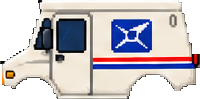
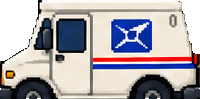
Add a vertical road, narrow the lots to suit, restore the van's wheels
Vertical road. The streets were horizontal bands separated by the lots with
nothing joining them, so a van could only ever serve the two properties
either side of its own street. A road now runs the full height of the map
down the left, crossing every cross street. Lots narrow from 880 to 780 and
shift right to make room, and vanOnRoad tests the union of the two roads, so
the van turns off one onto the other at each junction.

That means one van again instead of one parked per street, and it starts on
the vertical road beside the carrier's spawn. Driving is now directional:
the front and rear sprites are used when travelling up and down the vertical
road, the side views along a street.

Also widened the world from 880 to exactly the 900px canvas, closing a dead
20px strip that was showing the canvas background down the right edge. The
camera still never pans sideways.

Van wheels. The extraction had been dropping the tyres. The sheet's shadow
under each van is as black as the tyres themselves, so the background grow
walked down that gradient into them, and neither a colour threshold nor a
morphological close could separate the two afterwards. The cut now walks
down each column from the body to the tyre baseline and reclaims only the
dark pixels, which takes the wheels and the shadow between them without the
grey backdrop. Lower-band alpha coverage goes 0.72 -> 1.00 on the side
views and 0.70 -> 0.98 on the rear.
[…]

diff --git a/game.js b/game.js
@@ -201,8 +201,8 @@ const PLAYER_R = 11;       // player collision radius, also sizes mailbox approa
 const VAN_H = 58;          // rendered van height; length follows the sprite's aspect
 const VAN_SPEED = 260;     // noticeably quicker than the 130 the carrier walks
 const VAN_ENTER_R = 62;    // how close you must be to climb in
-const WORLD_W = 880;       // fits the widest lot plus verge, and stays under
-                           // the 900px canvas so the camera never pans sideways
+const WORLD_W = 900;       // exactly the canvas width: fills it edge to edge,
+                           // and the camera never pans sideways
 const MARGIN_TOP = 150;    // grass verge above the first lot, where the player starts
 const MARGIN_BOTTOM = 150;
 const SKY_H = 96;          // decorative horizon strip, kept clear of the first lot
@@ -231,8 +231,8 @@ const PROPS = {
   lamppost: { h: 92,  footH: 0.10, footW: 0.30, solid: true },
 };
 
-const LOT_W = WORLD_W;     // scenes span the full width, so there are no
-                           // ragged grass flanks left over beside a lot
+const VROAD_W = 120;       // vertical road down the left, joining every street
+const LOT_W = WORLD_W - VROAD_W;  // lots fill the rest, so no ragged grass flanks
 const LOT_H = 430;
 const SIDEWALK_H = 36;     // the walk along the front of every property
 
@@ -304,23 +304,23 @@ const AUTHORED_SCENES = {
   0: {
     key: 'lot1', w: LOT_W, h: LOT_H, sidewalkY: 394,
     items: [
-      { prop: 'house1', x: 453, y: 253 },
-      { prop: 'bush', x: 698, y: 267 },
-      { prop: 'rock', x: 197, y: 392 },
-      { prop: 'bush', x: 416, y: 394 },
-      { prop: 'birdbath', x: 198, y: 164 },
-      { prop: 'bush', x: 306, y: 298 },
-      { prop: 'rock', x: 239, y: 72 },
-      { prop: 'bush', x: 677, y: 145 },
-      { prop: 'rock', x: 676, y: 384 },
-      { prop: 'bush', x: 291, y: 207 },
-      { prop: 'birdbath', x: 572, y: 333, scale: 1.09 },
-      { prop: 'rock', x: 613, y: 240 },
-      { prop: 'bush', x: 285, y: 329 },
-      { prop: 'lamppost', x: 130, y: 419 },
-      { prop: 'lamppost', x: 833, y: 423 },
+      { prop: 'house1', x: 401, y: 253 },
+      { prop: 'bush', x: 619, y: 267 },
+      { prop: 'rock', x: 174, y: 392 },
+      { prop: 'bush', x: 368, y: 394 },
+      { prop: 'birdbath', x: 176, y: 164 },
+      { prop: 'bush', x: 271, y: 298 },
+      { prop: 'rock', x: 211, y: 72 },
+      { prop: 'bush', x: 600, y: 145 },
+      { prop: 'rock', x: 599, y: 384 },
+      { prop: 'bush', x: 258, y: 207 },
+      { prop: 'birdbath', x: 507, y: 333, scale: 1.09 },
+      { prop: 'rock', x: 543, y: 240 },
+      { prop: 'bush', x: 252, y: 329 },
+      { prop: 'lamppost', x: 115, y: 419 },
+      { prop: 'lamppost', x: 738, y: 423 },
     ],
-    mailbox: { x: 466, y: 265 }, dogSpawn: { x: 440, y: 324 },
+    mailbox: { x: 413, y: 265 }, dogSpawn: { x: 390, y: 324 },
   },
 };
 
@@ -471,23 +471,16 @@ function buildWorld(levelIndex) {
   let cursorY = MARGIN_TOP;
   for (let i = 0; i < cfg.houses; i++) {
     const lot = LOT_TYPES[i % LOT_TYPES.length];
-    houses.push(makeHouse(lot, Math.round((worldW - lot.w) / 2), cursorY, cfg, i));
+    houses.push(makeHouse(lot, VROAD_W, cursorY, cfg, i));
     const streetY0 = cursorY + lot.h;
     crossStreets.push({ y0: streetY0, y1: streetY0 + STREET_W });
-    // A van waits on every street. The streets are separated by the lots
-    // with no road joining them, so a single van could only ever serve the
-    // two properties either side of its own street.
-    vans.push({
-      x: Math.round(worldW * (i % 2 ? 0.68 : 0.32)),
-      y: streetY0 + STREET_W / 2,
-      band: { y0: streetY0, y1: streetY0 + STREET_W },
-      facing: i % 2 ? -1 : 1,
-      moving: false,
-    });
     cursorY = streetY0 + STREET_W;
   }
 
   const worldH = cursorY + MARGIN_BOTTOM;
+  // One van, parked on the vertical road -- that road joins every street, so
+  // a single van can reach the whole route.
+  vans.push({ x: Math.round(VROAD_W / 2), y: MARGIN_TOP + 40, facing: 'down', moving: false });
   const totalMail = houses.length;
 
   // static decorative elements, precomputed once so they don't flicker/jitter each frame
@@ -529,7 +522,7 @@ function buildWorld(levelIndex) {
     }
   }
 
-  const startX = worldW / 2;
+  const startX = VROAD_W / 2;
   return {
     cfg,
     houses,
@@ -743,10 +736,8 @@ function toggleVan() {
     // step out onto the kerb side, or the other side if that's blocked
     const van = p.van;
     const spots = [
-      { x: van.x, y: van.band.y1 + 16 },
-      { x: van.x, y: van.band.y0 - 16 },
-      { x: van.x - 46, y: van.y },
-      { x: van.x + 46, y: van.y },
+      { x: van.x + 52, y: van.y }, { x: van.x - 52, y: van.y },
+      { x: van.x, y: van.y + 48 }, { x: van.x, y: van.y - 48 },
     ];
     const clear = spots.find((sp) => !w.houses.some((h) => h.solids.some((sd) => circleRectOverlap(sp.x, sp.y, p.r, sd))));
     const out = clear || spots[0];
@@ -766,6 +757,15 @@ function vanInReach(w) {
   return w.vans.find((v) => dist(p.x, p.y, v.x, v.y) < VAN_ENTER_R) || null;
 }
 
+// True where a van may sit: anywhere along the vertical road, or within the
+// tarmac of any cross street. The two overlap at each junction, which is what
+// lets the van turn off one onto the other.
+function vanOnRoad(w, x, y) {
+  const M = 30;
+  if (x > M && x < VROAD_W - 26) return true;
+  return w.crossStreets.some((b) => y > b.y0 + M && y < b.y1 - 24) && x > M && x < w.worldW - M;
+}
+
 function updateVan(dt) {
   const w = state.world;
   const p = w.player;
@@ -778,11 +778,14 @@ function updateVan(dt) {
   van.moving = dx !== 0 || dy !== 0;
   if (van.moving) {
     const len = Math.hypot(dx, dy);
-    van.x = clamp(van.x + (dx / len) * VAN_SPEED * dt, 60, w.worldW - 60);
-    // the van stays on the tarmac -- it can drive the length of its street
-    // but never up onto a lawn
-    van.y = clamp(van.y + (dy / len) * VAN_SPEED * dt, van.band.y0 + 34, van.band.y1 - 24);
-    if (dx !== 0) van.facing = dx < 0 ? -1 : 1;
+    const stepX = (dx / len) * VAN_SPEED * dt;
+    const stepY = (dy / len) * VAN_SPEED * dt;
+    // per-axis, so running along a road while pushing into its kerb still
+    // slides rather than sticking
+    if (vanOnRoad(w, van.x + stepX, van.y)) van.x += stepX;
+    if (vanOnRoad(w, van.x, van.y + stepY)) van.y += stepY;
+    if (Math.abs(dx) > Math.abs(dy)) van.facing = dx < 0 ? 'left' : 'right';
+    else if (dy !== 0) van.facing = dy < 0 ? 'up' : 'down';
   }
   p.x = van.x; p.y = van.y;
 }
@@ -1281,6 +1284,31 @@ function drawSidewalkPavers(x0, y0, w, h, vertical) {
   }
 }
 
+// The road running the full height of the map down the left-hand side. It
+// crosses every cross street, which is what lets the van reach the whole
+// route instead of being stuck on one street.
+function drawVerticalStreet(worldH) {
+  ctx.fillStyle = '#bdb6a2';
+  ctx.fillRect(0, 0, VROAD_W, worldH);
+  drawSidewalkPavers(VROAD_W - 30, 0, 30, worldH, true);
+  const grad = ctx.createLinearGradient(0, 0, VROAD_W - 30, 0);
+  grad.addColorStop(0, '#4c4f52');
+  grad.addColorStop(0.5, '#5a5e62');
+  grad.addColorStop(1, '#4c4f52');
+  ctx.fillStyle = grad;
+  ctx.fillRect(0, 0, VROAD_W - 30, worldH);
+  ctx.strokeStyle = 'rgba(0,0,0,0.35)';
+  ctx.lineWidth = 2;
+  ctx.beginPath(); ctx.moveTo(VROAD_W - 30, 0); ctx.lineTo(VROAD_W - 30, worldH); ctx.stroke();
+  ctx.strokeStyle = '#ecc94a';
+  ctx.lineWidth = 3;
+  ctx.setLineDash([16, 14]);
+  ctx.beginPath();
+  ctx.moveTo((VROAD_W - 30) / 2, 0); ctx.lineTo((VROAD_W - 30) / 2, worldH);
+  ctx.stroke();
+  ctx.setLineDash([]);
+}
+
 function drawHorizontalStreet(streetY0, worldW) {
   const y0 = streetY0, y1 = streetY0 + STREET_W;
   ctx.fillStyle = '#bdb6a2';
@@ -1305,6 +1333,7 @@ function drawHorizontalStreet(streetY0, worldW) {
 }
 
 function drawRoad(w) {
+  drawVerticalStreet(w.worldH);
   for (const band of w.crossStreets) {
     drawHorizontalStreet(band.y0, w.worldW);
   }
@@ -1483,8 +1512,9 @@ function drawDog(dog) {
 // bipedal sprite flop onto its side. Vertical movement keeps the last
 // horizontal facing, matching classic top-down character rendering.
 function drawVan(van) {
-  const key = van.facing < 0 ? 'vehicle.vanLeft' : 'vehicle.vanRight';
-  const img = IMAGES[key];
+  const img = IMAGES[{ left: 'vehicle.vanLeft', right: 'vehicle.vanRight',
+                       up: 'vehicle.vanRear', down: 'vehicle.vanFront' }[van.facing]
+                     || 'vehicle.vanRight'];
   if (!img || !img.complete || !img.naturalHeight) return;
   const h = VAN_H, wpx = h * (img.naturalWidth / img.naturalHeight);
   ctx.fillStyle = 'rgba(0,0,0,0.28)';
